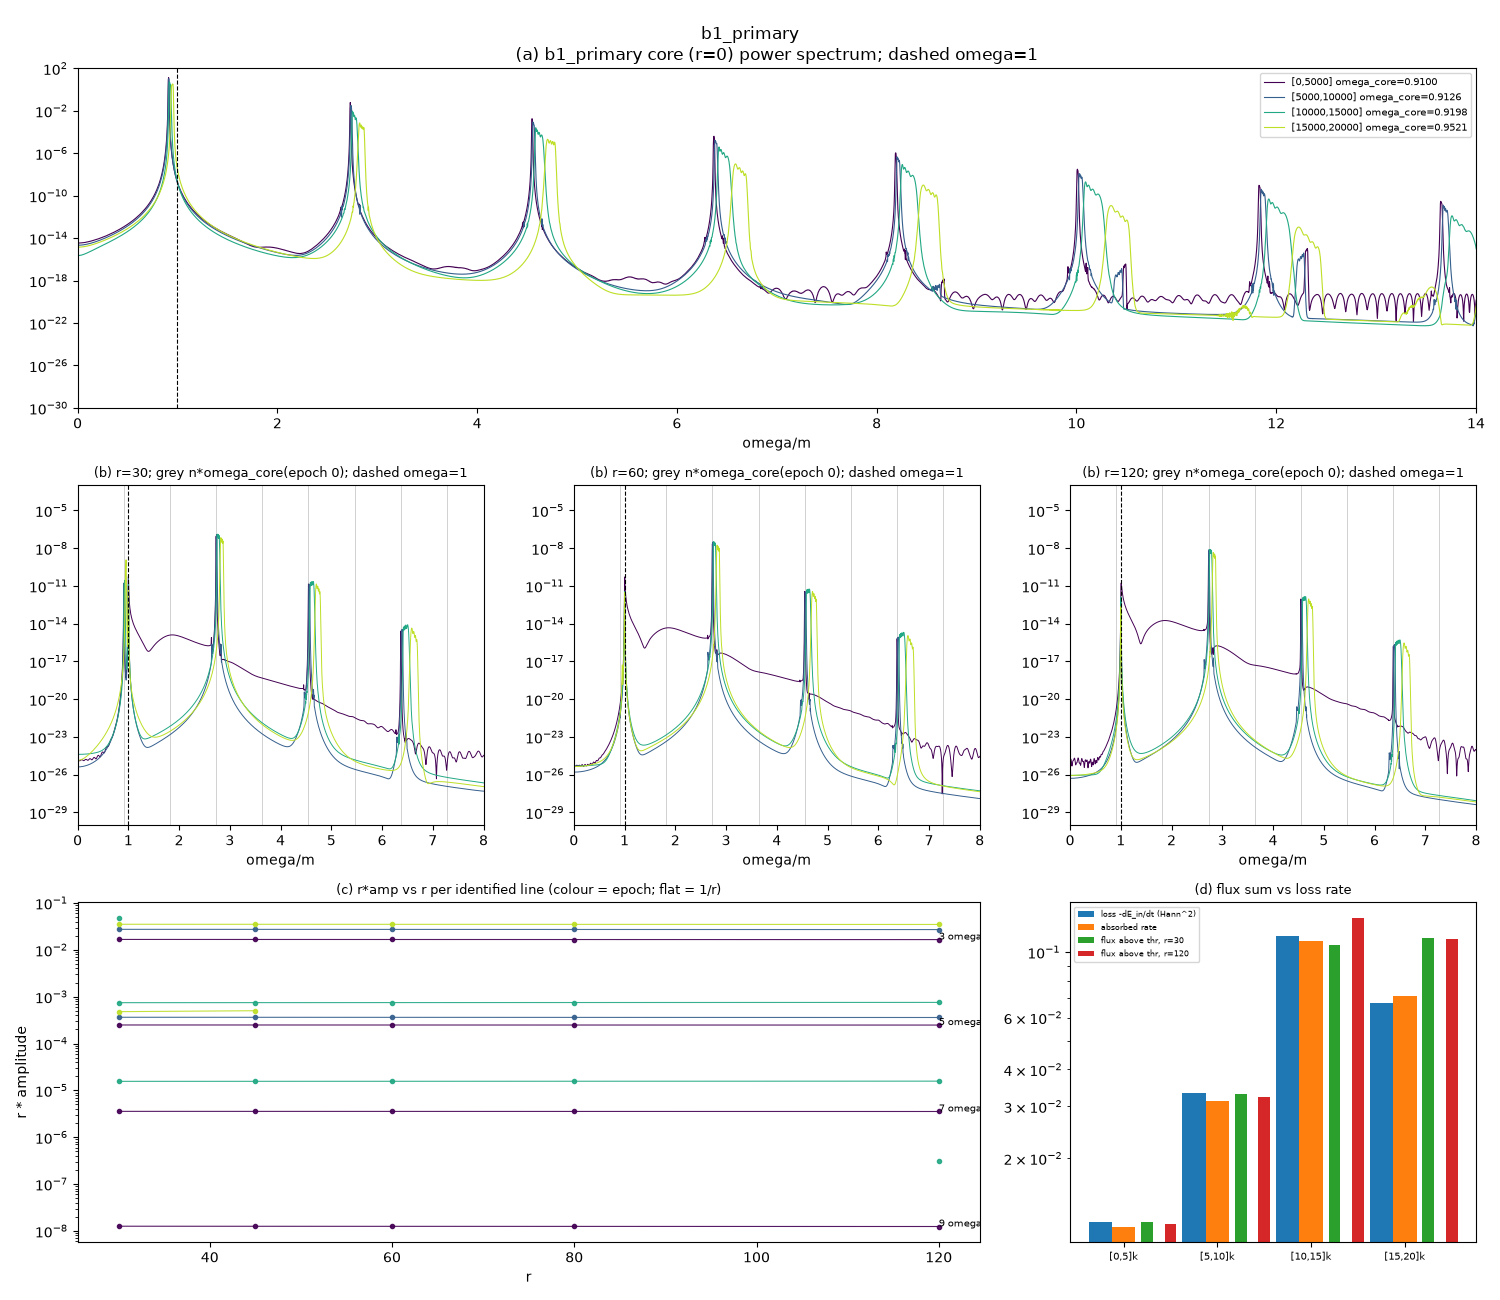
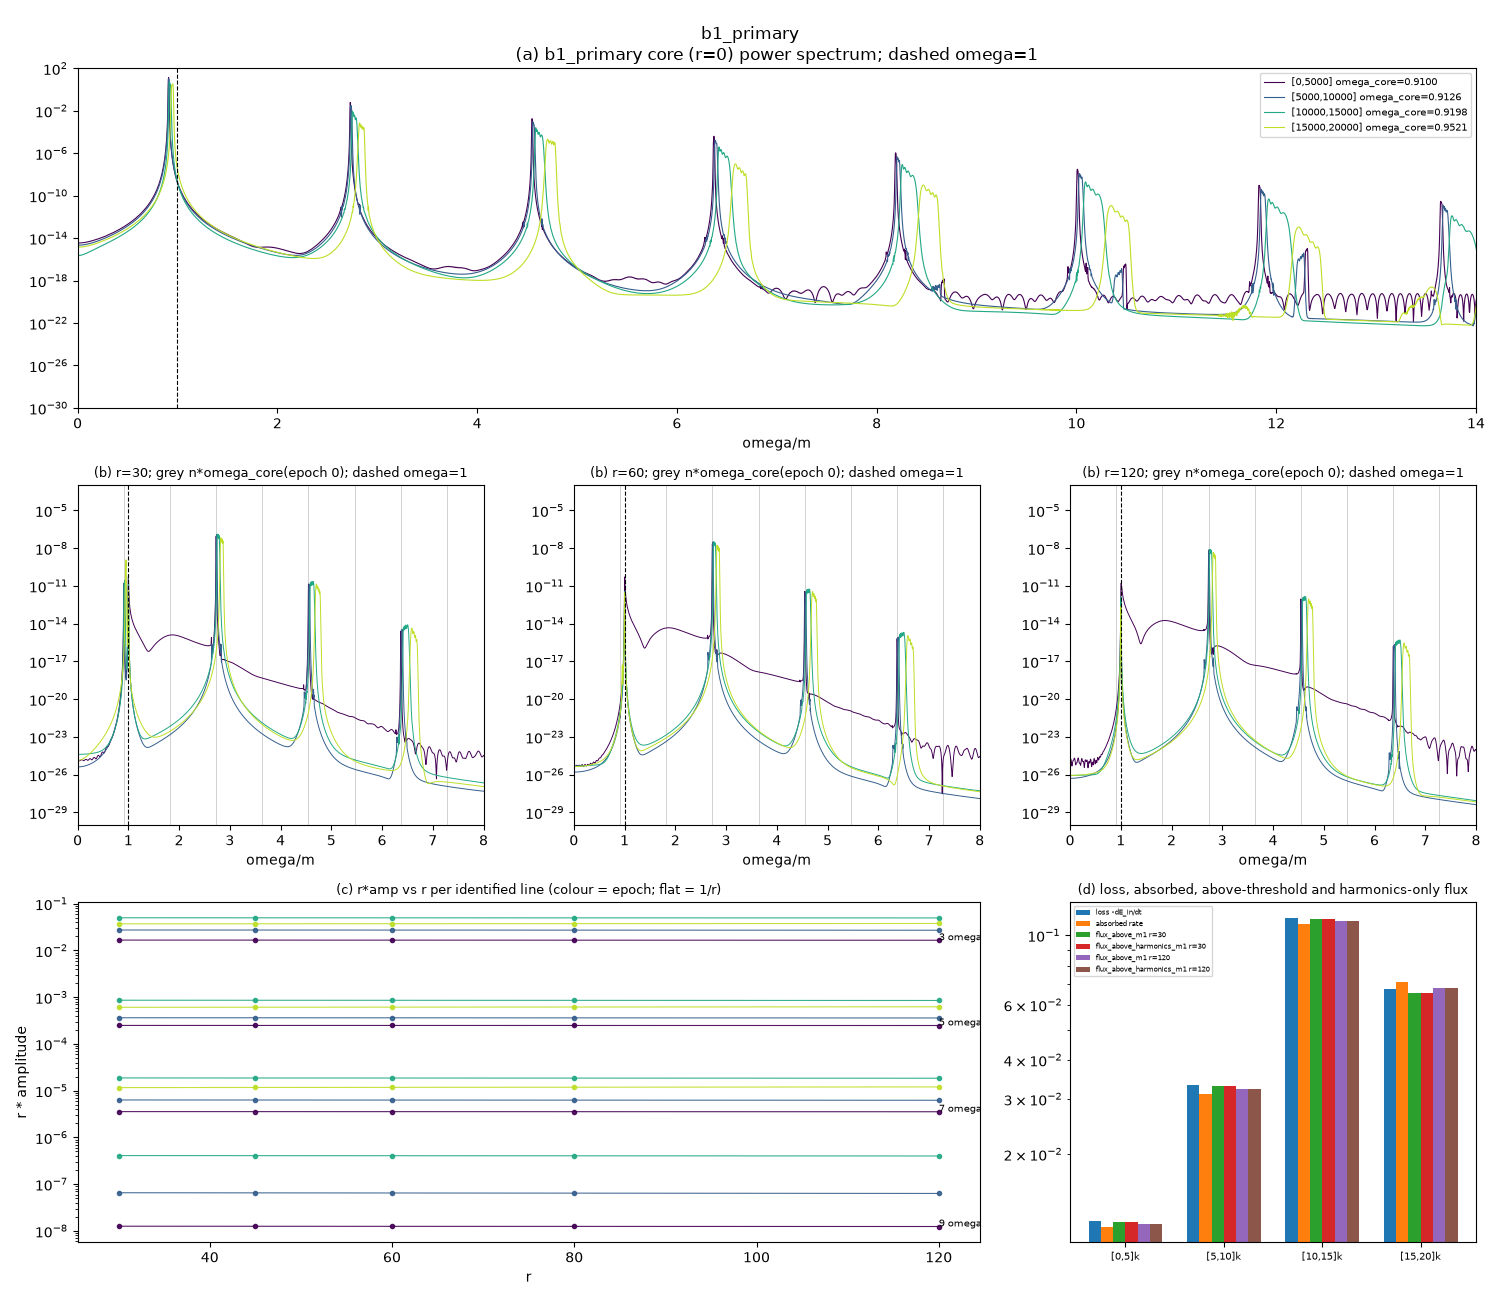
Test B plots regenerated from refreshed analysis; plotting script in repo

diff --git a/outputs/session4/testB/make_plots.py b/outputs/session4/testB/make_plots.py
@@ -1,0 +1,38 @@
+import json,os,numpy as np
+import matplotlib; matplotlib.use('Agg'); import matplotlib.pyplot as plt
+from swirl.session4.testB import analysis as A
+O=A.OUT
+# Run from the repo root: PYTHONPATH=$PWD <venv python> outputs/session4/testB/make_plots.py
+for n in ['b1_primary','b2_dip']:
+    a=json.load(open(O+'/'+n+'_analysis.json')); z=np.load(O+'/'+n+'_series.npz'); t,phi,rad=z['t'],z['phi'],list(z['probes']); dt=t[1]-t[0]
+    eps=a['epochs']; cols=plt.cm.viridis(np.linspace(0,.9,len(eps)))
+    fig=plt.figure(figsize=(15,13)); gs=fig.add_gridspec(3,3)
+    ax=fig.add_subplot(gs[0,:])
+    for k,ep in enumerate(eps):
+        om,P,_,_=A.welch(phi[:,rad.index(0.0)],dt,ep['t0'],ep['t1']); ax.semilogy(om,np.maximum(P,1e-40),c=cols[k],lw=.8,label='[%g,%g] omega_core=%.4f'%(ep['t0'],ep['t1'],ep['omega_core']))
+    ax.axvline(1,c='k',ls='--',lw=.8); ax.set_xlim(0,14); ax.set_ylim(1e-30,1e2); ax.legend(fontsize=7); ax.set_title('(a) %s core (r=0) power spectrum; dashed omega=1'%n); ax.set_xlabel('omega/m')
+    for i,r in enumerate([30,60,120]):
+        ax=fig.add_subplot(gs[1,i])
+        for k,ep in enumerate(eps):
+            om,P,_,_=A.welch(phi[:,rad.index(float(r))],dt,ep['t0'],ep['t1']); ax.semilogy(om,np.maximum(P,1e-40),c=cols[k],lw=.7)
+        for nn in range(1,10): ax.axvline(nn*eps[0]['omega_core'],c='0.75',lw=.5,zorder=0)
+        ax.axvline(1,c='k',ls='--',lw=.8); ax.set_xlim(0,8); ax.set_ylim(1e-30,1e-3); ax.set_title('(b) r=%d; grey n*omega_core(epoch 0); dashed omega=1'%r,fontsize=9); ax.set_xlabel('omega/m')
+    ax=fig.add_subplot(gs[2,:2])
+    for k,ep in enumerate(eps):
+        d={}
+        for p in ep['probes']:
+            if p['r']<30: continue
+            for l in p['lines']:
+                if l['label'] in('3 omega','5 omega','7 omega','9 omega'): d.setdefault(l['label'],[]).append((p['r'],p['r']*l['amp']))
+        for j,(lab,L) in enumerate(sorted(d.items())):
+            L.sort(); ax.semilogy([x[0] for x in L],[x[1] for x in L],'o-',c=cols[k],ms=3,lw=.8,alpha=.9)
+            if k==0: ax.annotate(lab,L[-1],fontsize=7)
+    ax.set_xlabel('r'); ax.set_ylabel('r * amplitude'); ax.set_title('(c) r*amp vs r per identified line (colour = epoch; flat = 1/r)',fontsize=9)
+    ax=fig.add_subplot(gs[2,2]); x=np.arange(len(eps)); w=1/8
+    ser=[('loss -dE_in/dt',[e['loss_rate_Ein_3hw'] for e in eps]),('absorbed rate',[e['absorbed_rate'] for e in eps])]
+    for rr in (30,120):
+        for key in ('flux_above_m1','flux_above_harmonics_m1'):
+            ser.append(('%s r=%d'%(key,rr),[[p[key] for p in e['probes'] if p['r']==rr][0] for e in eps]))
+    for i,(lab,v) in enumerate(ser): ax.bar(x+(i-2.5)*w,v,w,label=lab)
+    ax.set_yscale('log'); ax.set_xticks(x); ax.set_xticklabels(['[%g,%g]k'%(e['t0']/1000,e['t1']/1000) for e in eps],fontsize=7); ax.legend(fontsize=5); ax.set_title('(d) loss, absorbed, above-threshold and harmonics-only flux',fontsize=9)
+    fig.suptitle(n); fig.tight_layout(); p=O+'/'+n+'_testB_plots.png'; fig.savefig(p+'.tmp.png',dpi=100); os.replace(p+'.tmp.png',p); plt.close(fig); print(p)
